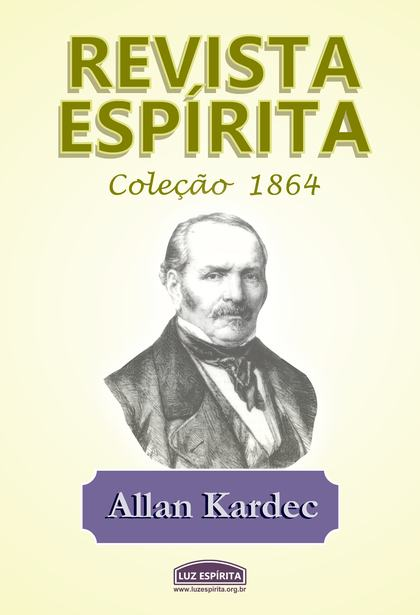
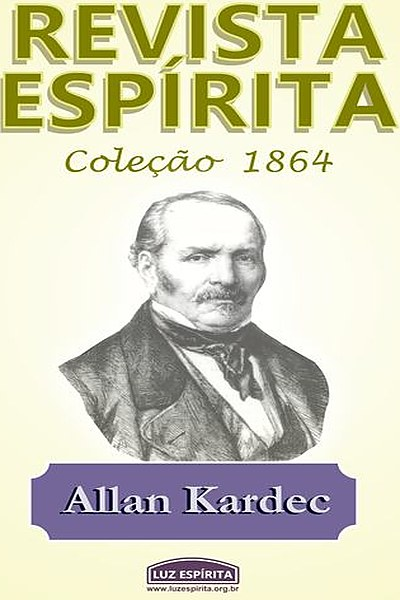
Recortar bordas brancas de Desobsessao e mais 13 capas (?v=4)

diff --git a/livraria.html b/livraria.html
@@ -351,7 +351,7 @@
       grid.innerHTML = filtrados.map((b, idx) => `
         <article class="bg-white rounded-2xl border border-sand-200/90 shadow-sm hover:shadow-lg transition-all duration-200 flex flex-col overflow-hidden group">
           <div class="relative aspect-[2/3] bg-sand-100 overflow-hidden cursor-pointer" onclick="abrirModal('${b.slug}')">
-            <img src="${b.cover}?v=3" alt="Capa de ${b.title}" loading="lazy" class="w-full h-full object-cover group-hover:scale-105 transition-transform duration-300">
+            <img src="${b.cover}?v=4" alt="Capa de ${b.title}" loading="lazy" class="w-full h-full object-cover group-hover:scale-105 transition-transform duration-300">
           </div>
           <div class="p-4 flex-1 flex flex-col justify-between">
             <div>
@@ -377,7 +377,7 @@
     function abrirModal(slug) {
       const b = livros.find(x => x.slug === slug);
       if (!b) return;
-      document.getElementById('m-capa').src = b.cover + '?v=3';
+      document.getElementById('m-capa').src = b.cover + '?v=4';
       document.getElementById('m-capa').alt = b.title;
       document.getElementById('m-cat').textContent = b.category;
       document.getElementById('m-titulo').textContent = b.title;

diff --git a/biblioteca.html b/biblioteca.html
@@ -328,7 +328,7 @@
       grid.innerHTML = filtrados.map(b => `
         <article class="bg-white rounded-2xl border border-sand-200/90 shadow-sm hover:shadow-lg transition-all duration-200 flex flex-col overflow-hidden group">
           <div class="relative aspect-[2/3] bg-sand-100 overflow-hidden">
-            <img src="${b.cover}?v=3" alt="Capa de ${b.title}" loading="lazy" class="w-full h-full object-cover group-hover:scale-105 transition-transform duration-300">
+            <img src="${b.cover}?v=4" alt="Capa de ${b.title}" loading="lazy" class="w-full h-full object-cover group-hover:scale-105 transition-transform duration-300">
           </div>
           <div class="p-4 flex-1 flex flex-col justify-between">
             <div>
